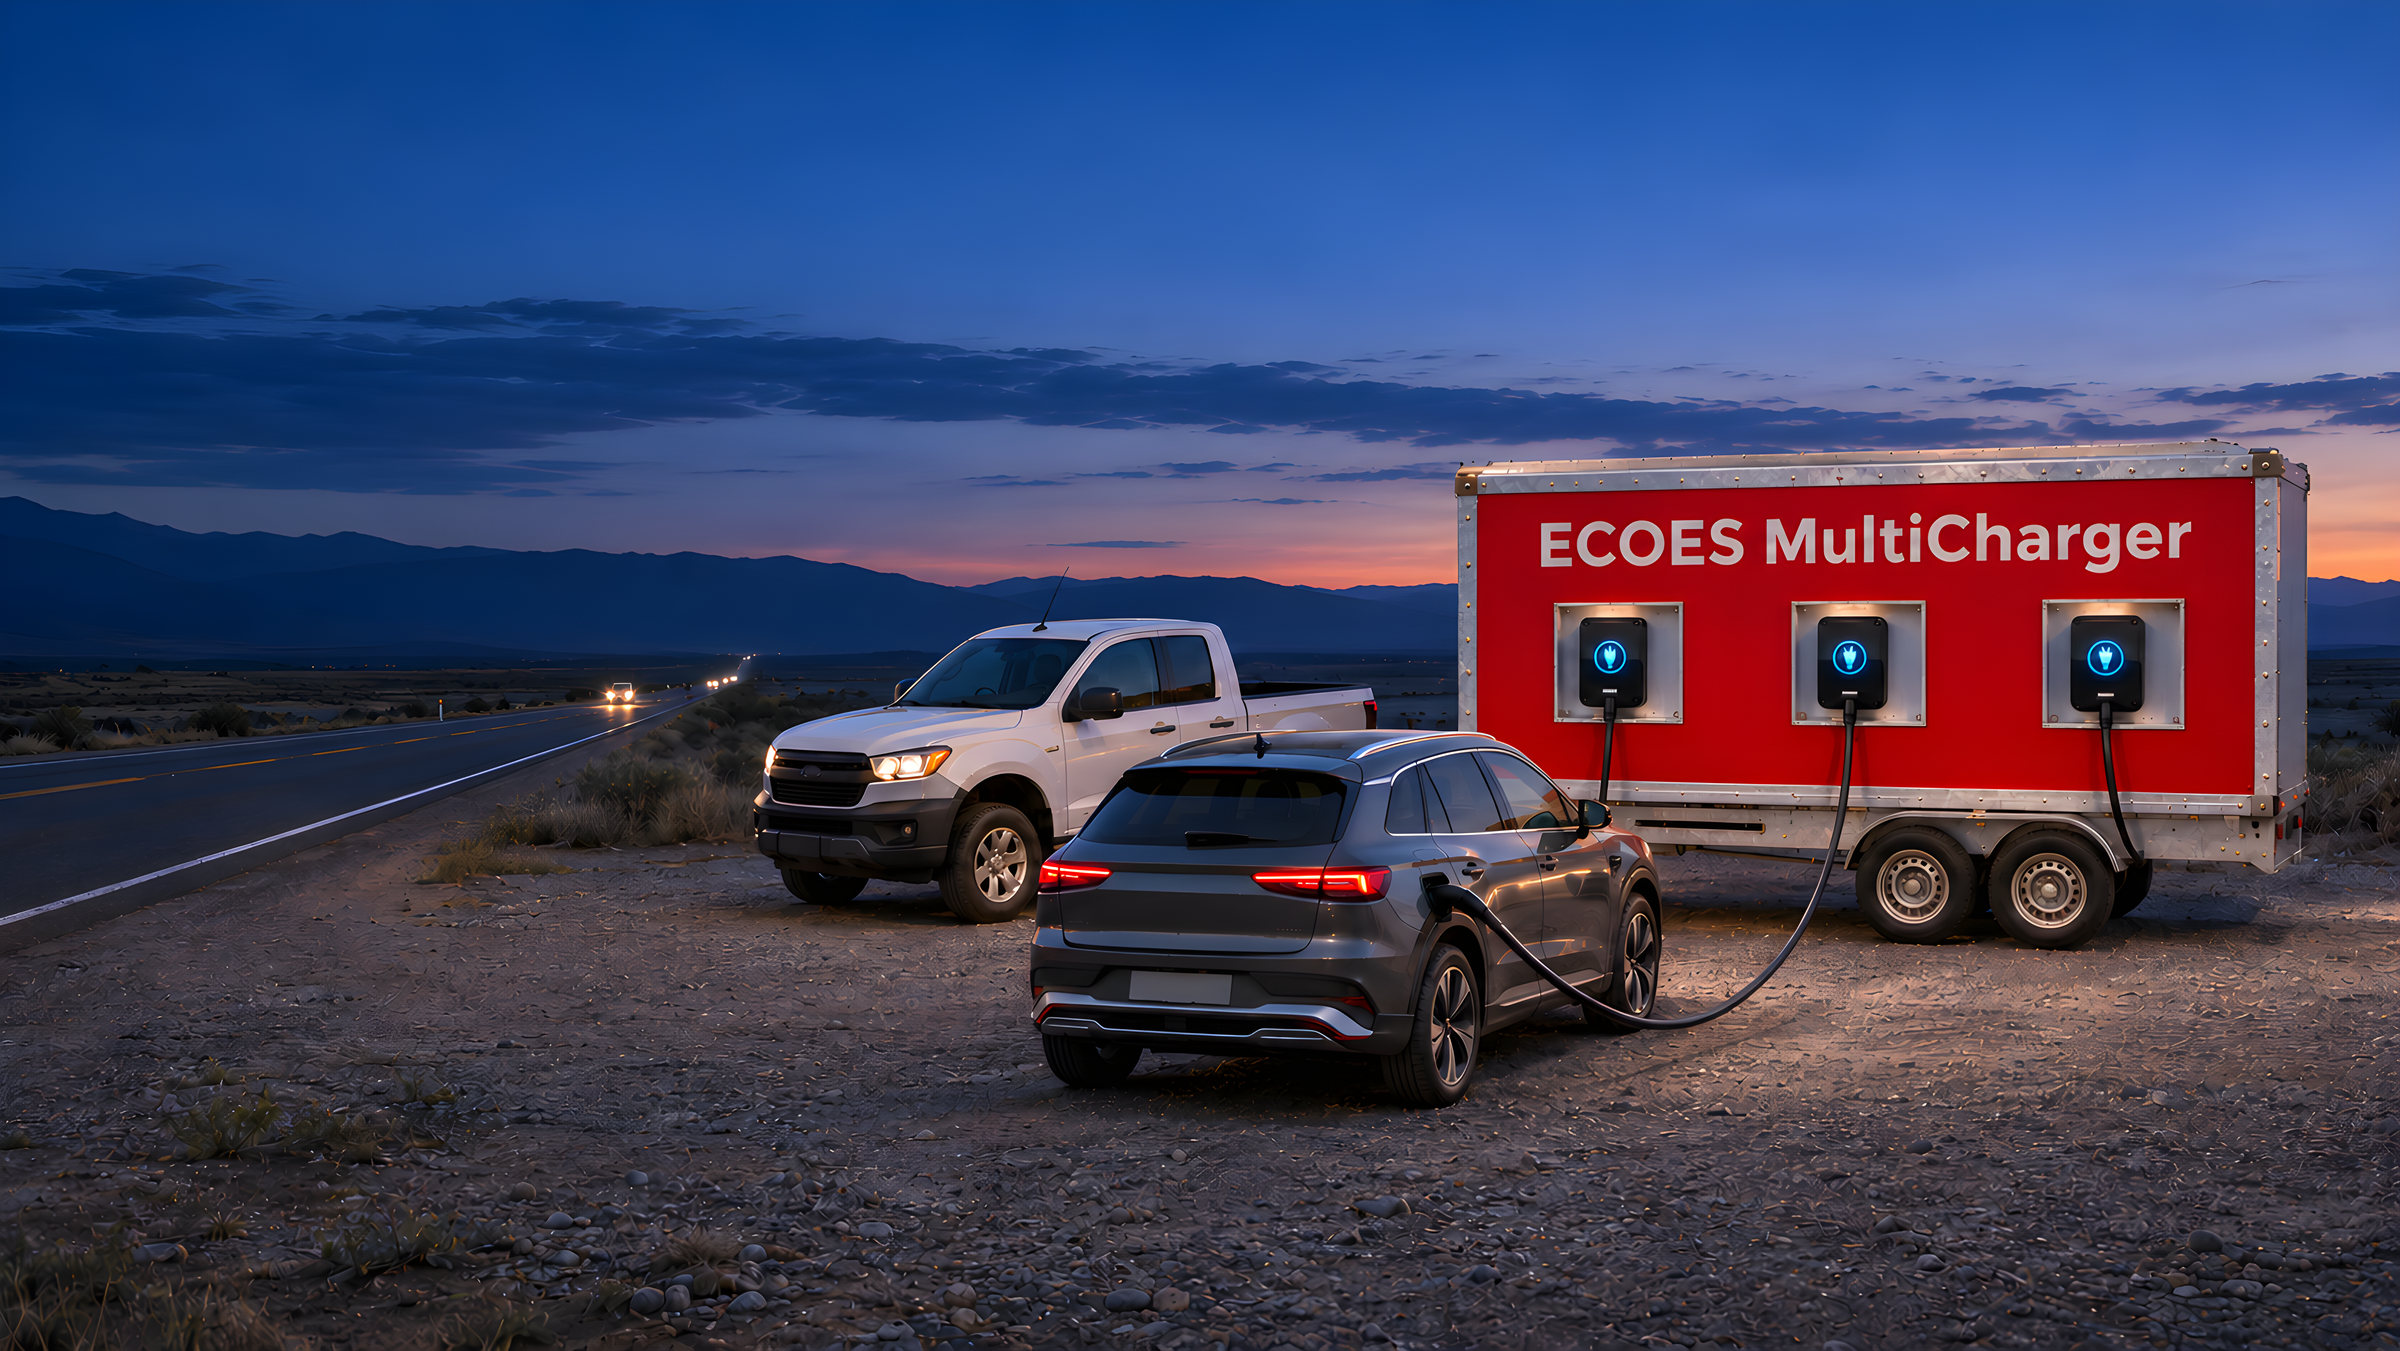
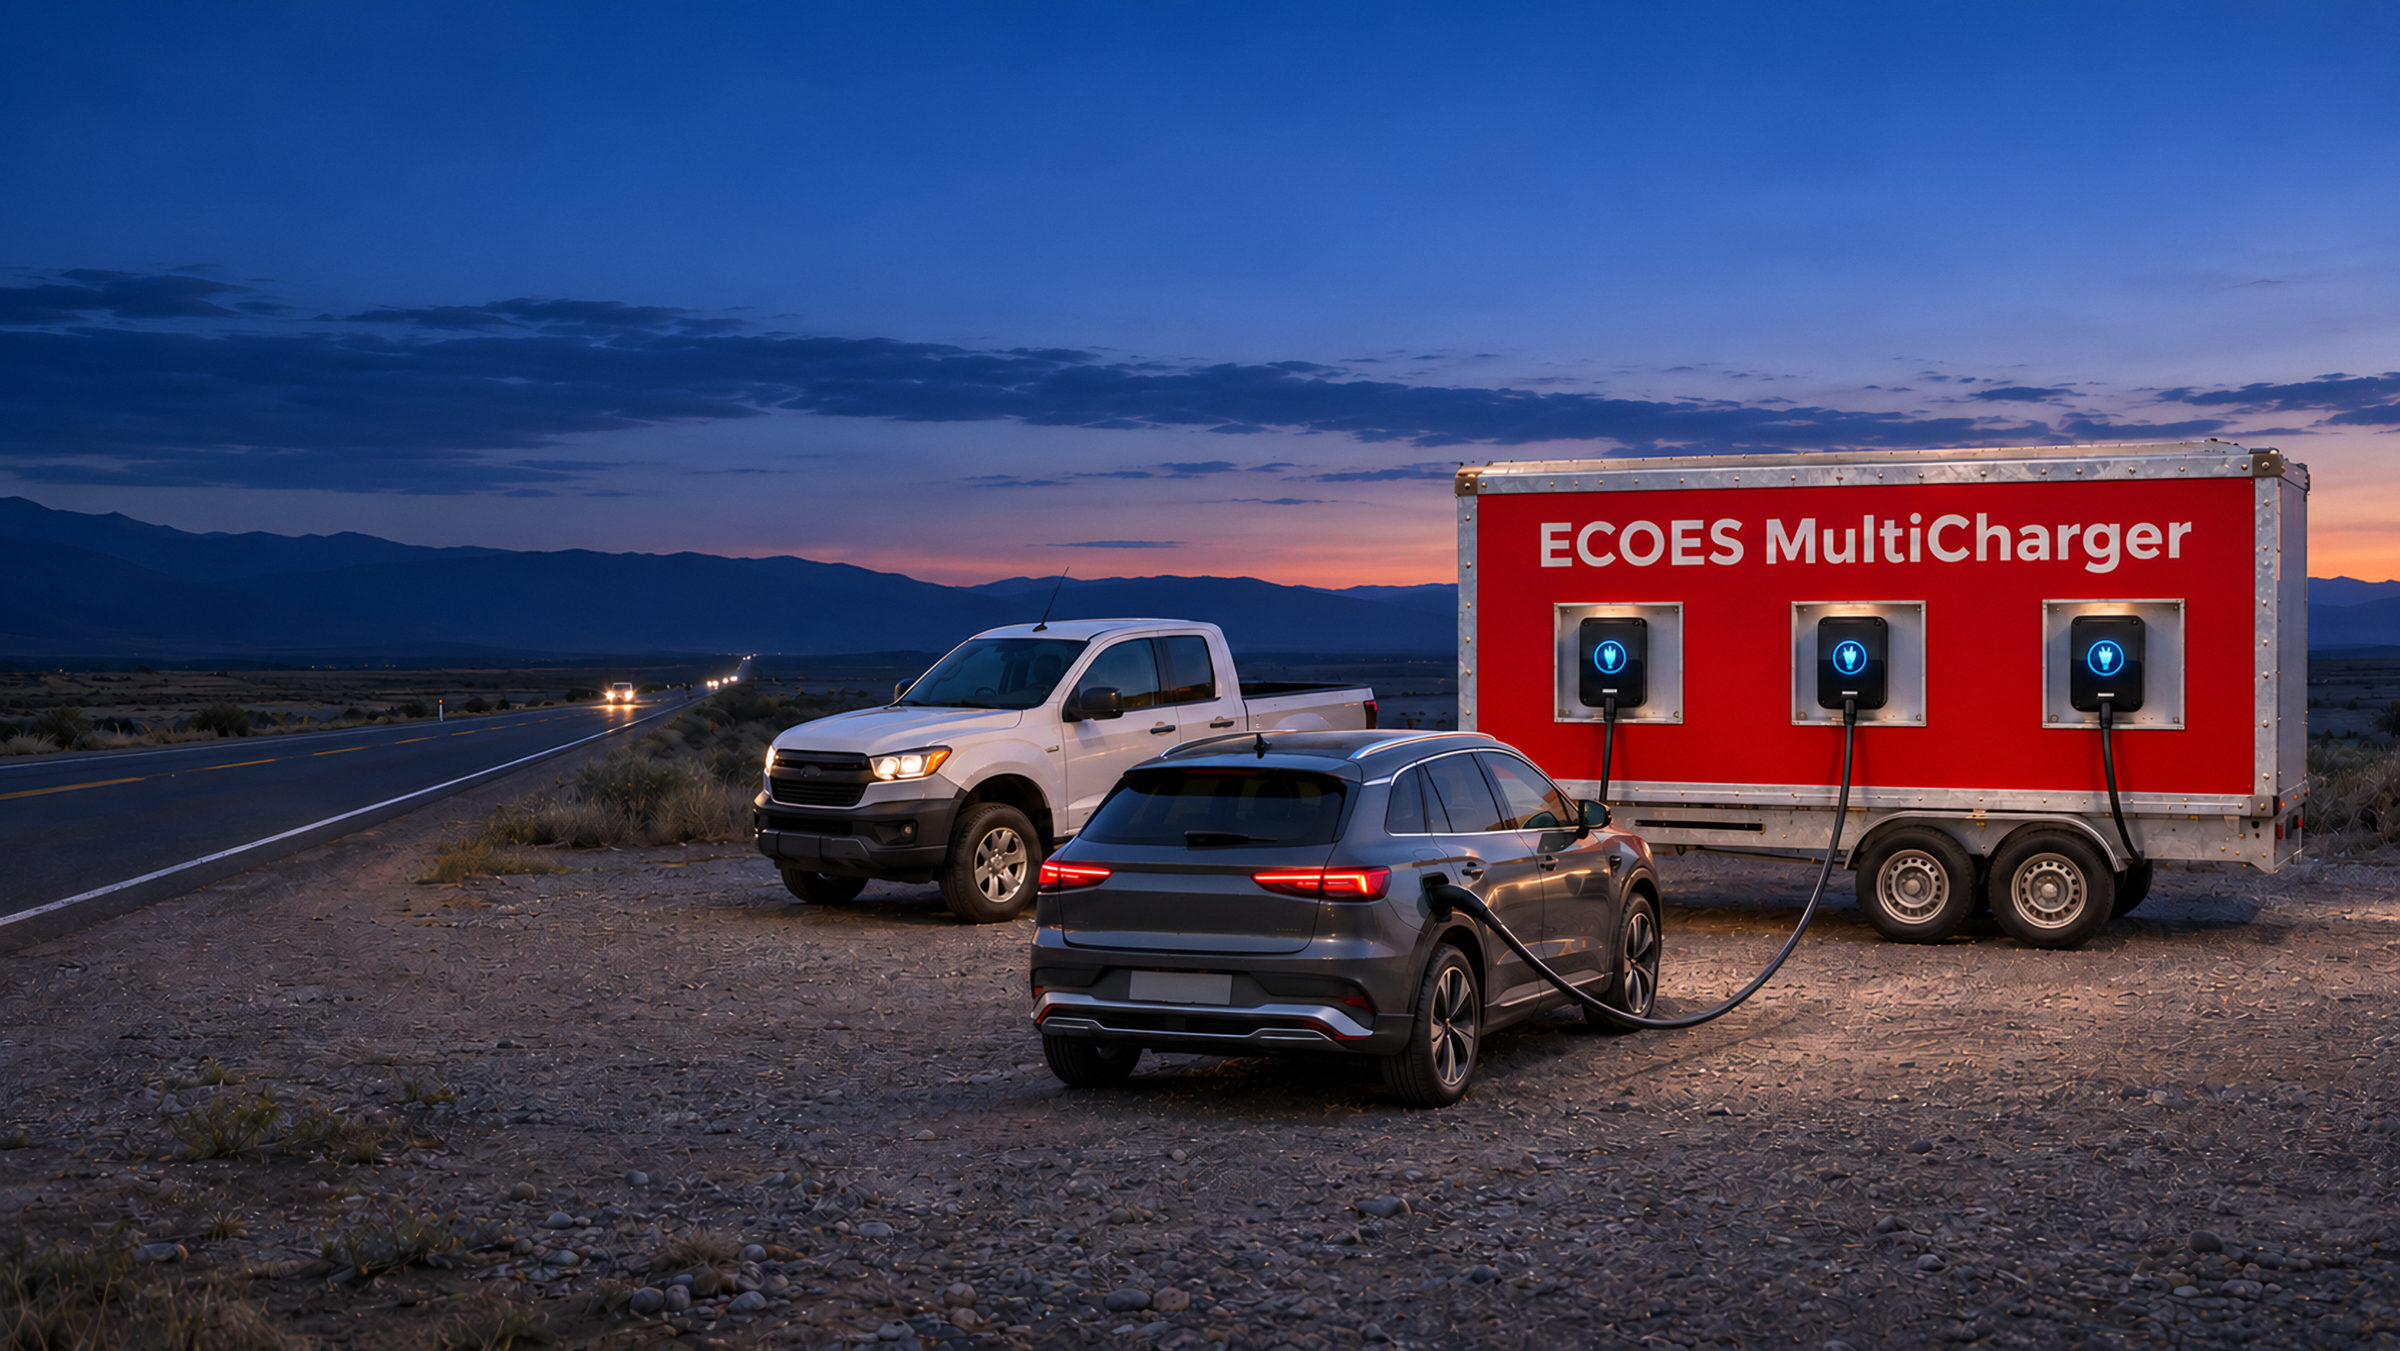
MultiCharger page head: a natural enlargement instead of the pure AI one
Client: the AI-upscaled picture looks too obviously AI-edited; it should
be natural and restrained. Now a conventional (Lanczos) enlargement of
the client's image with 35% of the Real-ESRGAN result for edge
definition and a fine photographic grain: the surfaces and the gravel
keep their natural texture, the edges are a little firmer than the
original's. Same sizes (800-3200), provenance and notes updated.

Claude-Session: https://claude.ai/code/session_01GEpPHxRAoV4DXBRX1UR8qC

Changed region(s): [[0.5938, 0.5285, 0.625, 0.5596], [0.4375, 0.6218, 0.4688, 0.6528]]

diff --git a/CLAUDE.md b/CLAUDE.md
@@ -58,7 +58,7 @@ History: v1 (2026-11-03 morning, the impeccable roll's "special-equipment body":
 - Product truth first: the MultiCharger and the Box must stay exactly as designed (pre-orders are taken from these pictures, the design is registered); check hatches, chargers, lettering, frame, axles before using a returned image. Fallback: upscale the original (Upscayl) instead of regenerating; best: renders from the CAD model, if the client has one.
 - Processing when images arrive: see the header of `tools/image-kit.md` (cut-outs with `tools/cutout.py`, hero sizes 800–2400, rebuild `amb-beach` and `og-image.jpg` from the new hero, provenance with `impeccable embed-prompt`).
 - Asked: the original zip of photos mentioned in the visualisation (maybe higher resolution than the PDF).
-- Received 2026-11-03 (`ECOES-7-photos.zip`, 7 PNGs, hero and heads 1672 × 941, products ~1700–2060 px) and placed: hero `assets/img/home/hero-bluehour-{800,1200,1672}` (blue hour), products `assets/img/v2/cut-{container,multicharger,box}-*.webp` (cut out; the trailer with `--floor=836:110` so the wide grey ground shadow fades), page heads `assets/img/v2/head-{multicharger,box}-*` (`head-franchise-*` removed 2026-11-04: that head is the network globe now) (the MultiCharger head had a stray orange speck by the dot of the i, which read as "MultíCharger": retouched by hand); the MultiCharger head was then upscaled 4x with Real-ESRGAN x4plus (`tools/upscale.py`, client 2026-11-04: "the quality of the hero image is not good"; ChatGPT gives at most about 1.7k px, the head is shown up to about 2.8k device px on sharp screens) and published at 800/1200/1672/2400/3200 (JPEG 4:4:4, so the lettering on the red body stays crisp), `sizes="(max-width: 999px) 153vh, 100vw"` because phones show the middle of the picture at the head's height. Use the same for any other picture that looks soft, `amb-hero-*` (the Contact head, blurred from the new hero), `og-image.jpg` from the new hero. Checked: lettering, three chargers, Box hatches, two axles; no brand badges. Page heads frame per page: `.page-hero--multicharger/--box` object-position.
+- Received 2026-11-03 (`ECOES-7-photos.zip`, 7 PNGs, hero and heads 1672 × 941, products ~1700–2060 px) and placed: hero `assets/img/home/hero-bluehour-{800,1200,1672}` (blue hour), products `assets/img/v2/cut-{container,multicharger,box}-*.webp` (cut out; the trailer with `--floor=836:110` so the wide grey ground shadow fades), page heads `assets/img/v2/head-{multicharger,box}-*` (`head-franchise-*` removed 2026-11-04: that head is the network globe now) (the MultiCharger head had a stray orange speck by the dot of the i, which read as "MultíCharger": retouched by hand); the MultiCharger head was then enlarged for sharp screens (client 2026-11-04: "the quality of the hero image is not good"; ChatGPT gives at most about 1.7k px, the head is shown up to about 2.8k device px): the pure Real-ESRGAN x4plus result (`tools/upscale.py`) looked "too obviously AI-edited" (smooth, plastic surfaces, over-crisp edges), so the published version is a natural middle – a conventional Lanczos enlargement with 35% of the Real-ESRGAN result for edge definition and a fine luminance grain (the blend script lived in the session scratchpad: mix = lanczos × 0.65 + esrgan × 0.35, grain σ ≈ 2.2 levels, blurred 0.55 px, stronger in the mid-tones); never publish a pure AI upscale. Published at 800/1200/1672/2400/3200 (JPEG 4:4:4, so the lettering on the red body stays crisp), `sizes="(max-width: 999px) 153vh, 100vw"` because phones show the middle of the picture at the head's height. Use the same for any other picture that looks soft, `amb-hero-*` (the Contact head, blurred from the new hero), `og-image.jpg` from the new hero. Checked: lettering, three chargers, Box hatches, two axles; no brand badges. Page heads frame per page: `.page-hero--multicharger/--box` object-position.
 
 ## Content notes
 - ECOES Franchise page: the visualisation's headings are English inside the Bulgarian text ("WHAT IS AN ECOES Franchise & WHY ECOES Franchise", "I. WHAT IS…", "II. WHY…"); the BG page uses "I. Какво е ECOES Franchise" / "II. Защо ECOES Franchise" (reported, offered to keep English). The combined title is shown as the two section links in the page head; the kicker "ПЛАТФОРМА ЗА МОБИЛНА ЗАРЯДНА ИНФРАСТРУКТУРА" is the h1 with the name. Fixed "3- портова" → "3-портова" (reported). Asked: "патентно защитен в … (EUIPO)" – EUIPO registers designs and trade marks, not patents (as on ecoes.eu). Colons after the bold item labels dropped where the label became the item title.
